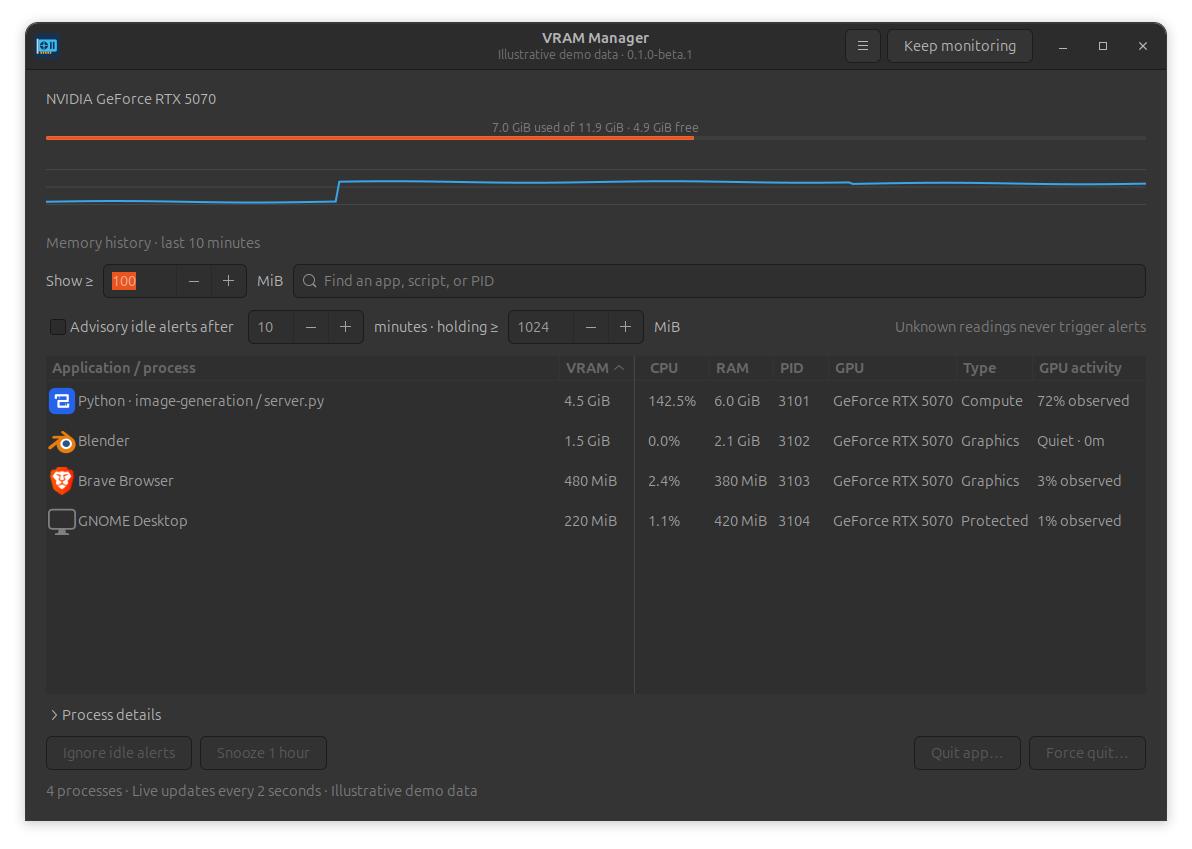
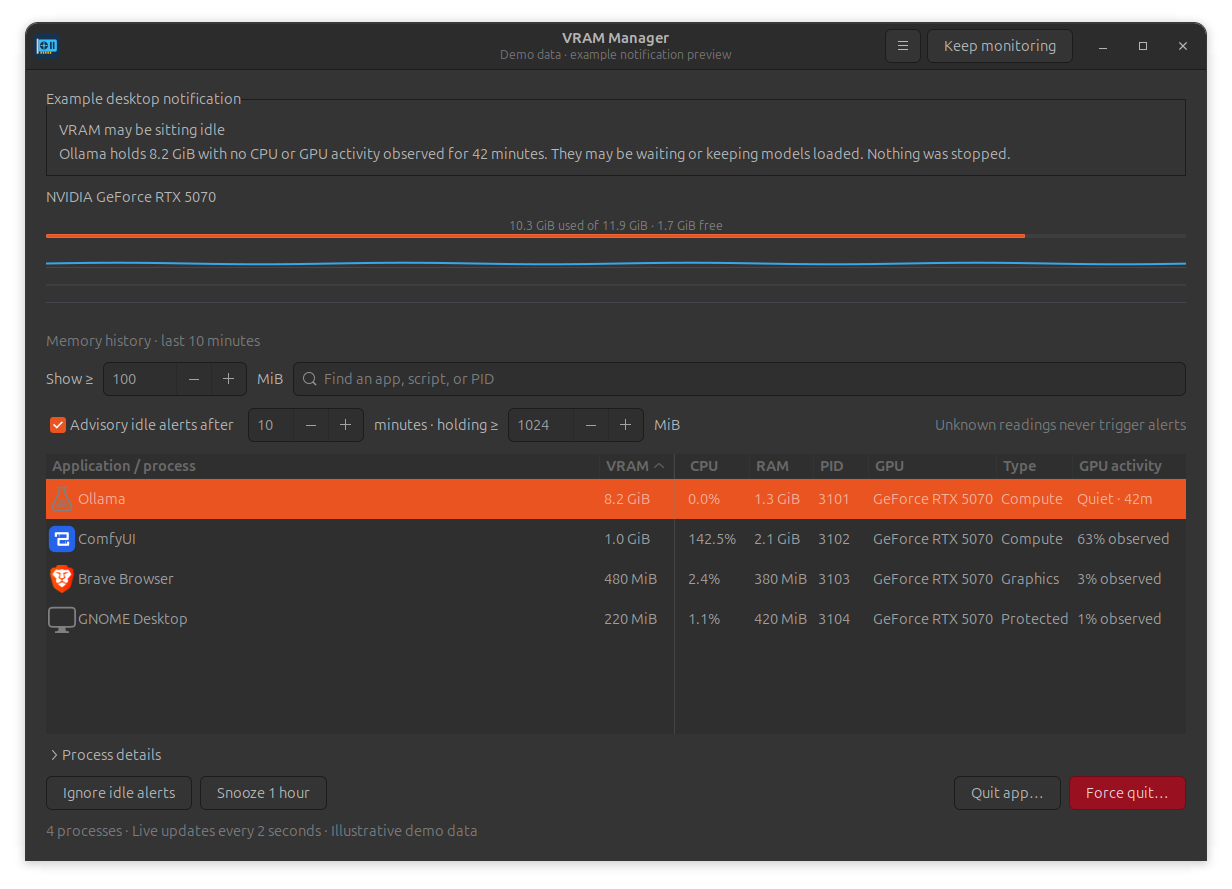
Lead with idle VRAM alerts and refresh labeled demo screenshot

diff --git a/packaging/screenshot.py b/packaging/screenshot.py
@@ -6,6 +6,7 @@ import sys
 import tempfile
 import time
 from pathlib import Path
+from unittest.mock import patch
 
 ROOT = Path(__file__).resolve().parents[1]
 sys.path.insert(0, str(ROOT))
@@ -19,32 +20,32 @@ app = Gtk.Application(
 app.register(None)
 with tempfile.TemporaryDirectory() as folder:
     settings = Settings(Path(folder) / "settings.json")
-    settings.values.update(width=1140, height=750, alerts=False)
+    settings.values.update(width=1180, height=790, alerts=True)
     window = Window(app, settings, automatic=False, focusable=False)
-    window.get_titlebar().set_subtitle("Illustrative demo data · 0.1.0-beta.1")
+    window.get_titlebar().set_subtitle("Demo data · example notification preview")
     gpu = "GeForce RTX 5070"
     processes = [
         Process(
             3101,
-            "Python · image-generation / server.py",
-            4608,
+            "Ollama",
+            8396.8,
+            gpu,
+            "C",
+            executable="/usr/bin/ollama",
+            icon="applications-science",
+            started="a",
+            activity=0,
+        ),
+        Process(
+            3102,
+            "ComfyUI",
+            1024,
             gpu,
             "C",
             executable="/usr/bin/python3",
             icon="applications-science",
-            started="a",
-            activity=72,
-        ),
-        Process(
-            3102,
-            "Blender",
-            1536,
-            gpu,
-            "G",
-            executable="/usr/bin/blender",
-            icon="blender",
             started="b",
-            activity=0,
+            activity=63,
         ),
         Process(
             3103,
@@ -71,13 +72,43 @@ with tempfile.TemporaryDirectory() as folder:
         ),
     ]
     for index, process in enumerate(processes):
-        process.ram_mib = [6100, 2200, 380, 420][index]
-        process.cpu_percent = [142.5, 0, 2.4, 1.1][index]
-    window.received(([(f"NVIDIA {gpu}", 7200, 12227)], processes, 0), None)
+        process.target_pid = process.pid
+        process.target_started = process.started
+        process.ram_mib = [1300, 2200, 380, 420][index]
+        process.cpu_percent = [0, 142.5, 2.4, 1.1][index]
+
+    def preview_notification(title, body, key, actions=()):
+        # Render the actual alert text locally, without sending desktop notifications.
+        frame = Gtk.Frame(label="Example desktop notification")
+        content = Gtk.Box(orientation=Gtk.Orientation.VERTICAL, spacing=6, margin=12)
+        heading = Gtk.Label(label=title, xalign=0)
+        heading.get_style_context().add_class("title")
+        text = Gtk.Label(label=body, xalign=0)
+        text.set_line_wrap(True)
+        content.pack_start(heading, False, False, 0)
+        content.pack_start(text, False, False, 0)
+        frame.add(content)
+        box = window.get_child()
+        box.pack_start(frame, False, False, 0)
+        box.reorder_child(frame, 0)
+        frame.show_all()
+        return True
+
+    now = time.monotonic()
+    window.idle_tracker.states[processes[0].key] = (now - 42 * 60, False)
+    with patch.object(
+        window, "notification", side_effect=preview_notification
+    ), patch.object(window, "desktop_allows_alerts", return_value=True):
+        window.received(([(f"NVIDIA {gpu}", 10500, 12227)], processes, 0), None)
+    window.tree.get_selection().select_path(Gtk.TreePath.new_first())
+    window.minimum.select_region(0, 0)
+    window.idle_minutes.select_region(0, 0)
+    window.alert_vram.select_region(0, 0)
+    window.set_focus(None)
     window.history.points.clear()
     now = time.monotonic()
     for i in range(301):
-        usage = 3200 if i < 80 else 7100 if i < 220 else 6800
+        usage = 10350
         window.history.points.append(
             (now - 600 + i * 2, usage + 150 * math.sin(i / 12), 12227)
         )

diff --git a/README.md b/README.md
@@ -1,10 +1,14 @@
 # VRAM Manager
 
-See what holds your GPU memory. Quit the apps you choose.
+**Ollama is still holding 8 GB of VRAM, 40 minutes after you stopped using it.** VRAM Manager can flag prolonged inactivity and let you quit the process when you choose.
 
-A small native Linux desktop app for NVIDIA GPUs. Lists graphics **and** compute processes using at least 100 MiB, with readable names, installed app icons, live CPU/RAM context, memory history, and optional idle alerts.
+See which apps hold your GPU memory, with live CPU/RAM context and optional idle alerts from a small top-bar app. Built for **Ubuntu + NVIDIA**. Nothing is stopped automatically.
 
-![VRAM Manager interface — illustrative demo data](docs/screenshot.png)
+**[Download the Ubuntu beta](https://github.com/Elhelali/vram-manager/releases/tag/v0.1.0-beta.1)** · [Resource usage](docs/RESOURCE_USE.md)
+
+![VRAM Manager showing Ollama holding 8.2 GiB, quiet for 42 minutes, with an example idle alert](docs/screenshot.png)
+
+*Illustrative demo data with an example notification preview. “Quiet” means no CPU or GPU activity observed in samples; an app may still be waiting or intentionally keeping a model loaded. Alerts are opt-in, with adjustable memory and duration thresholds.*
 
 ## Install the Ubuntu 24.04 beta
 
